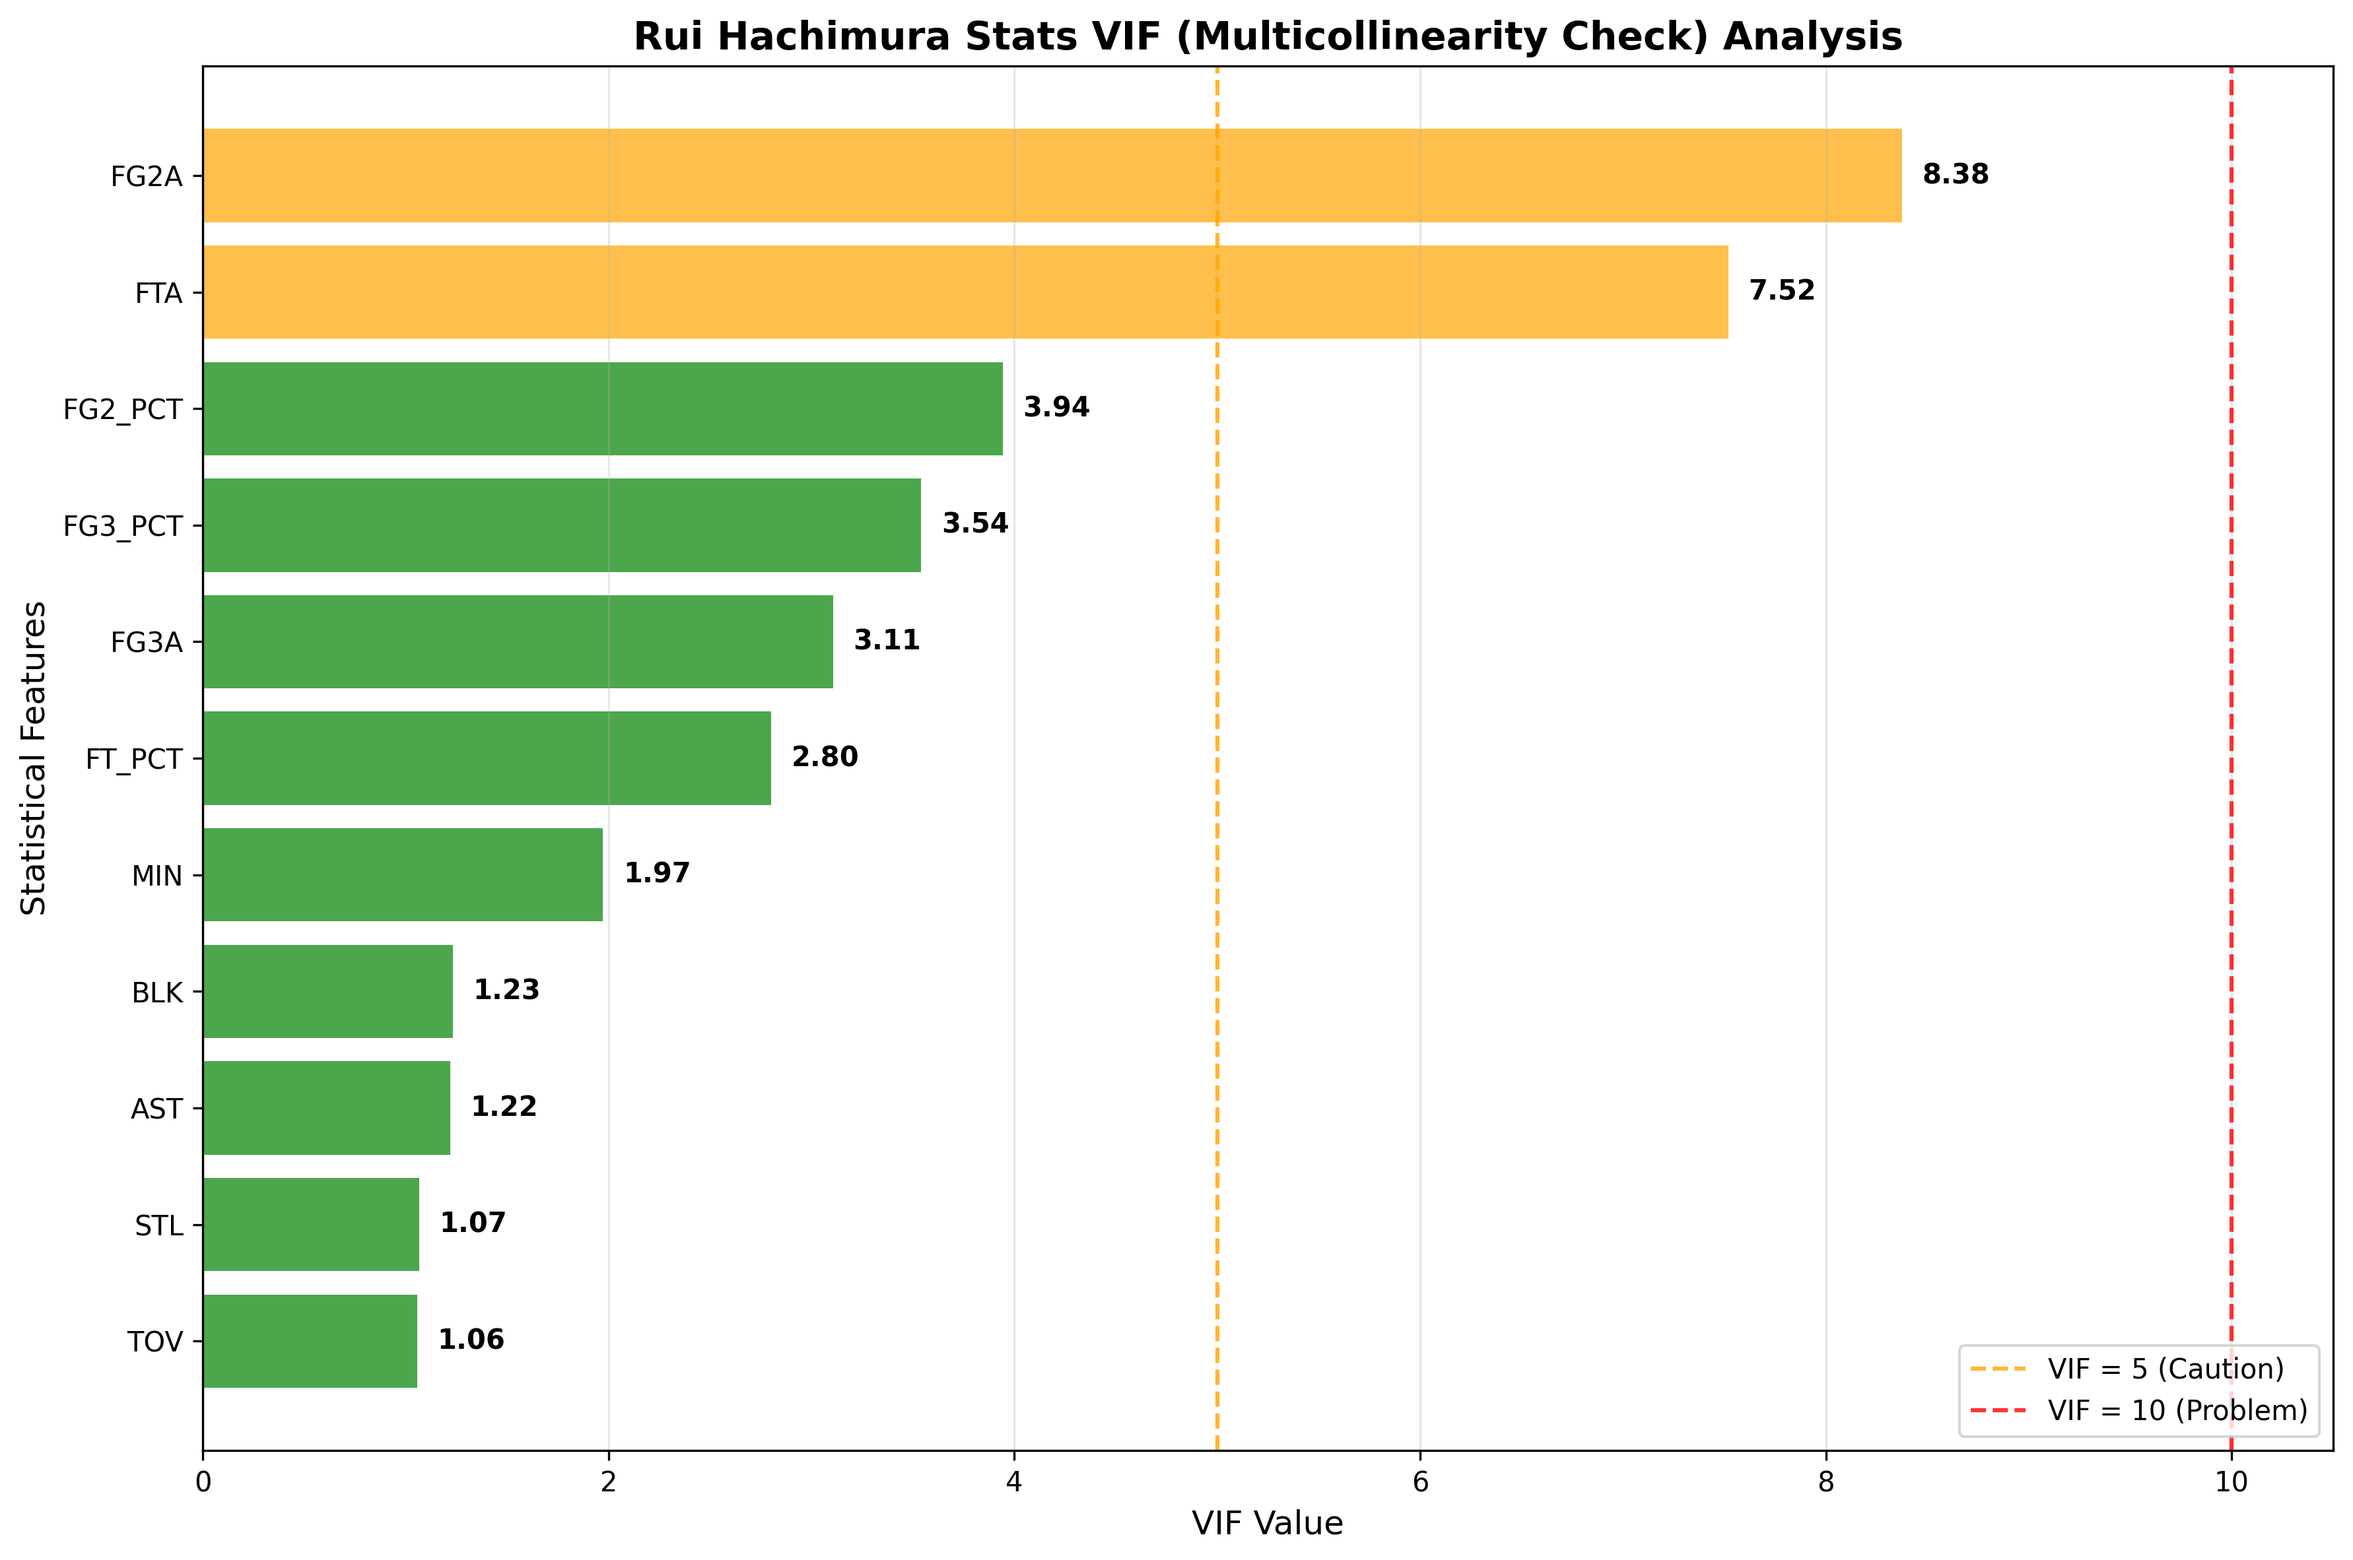
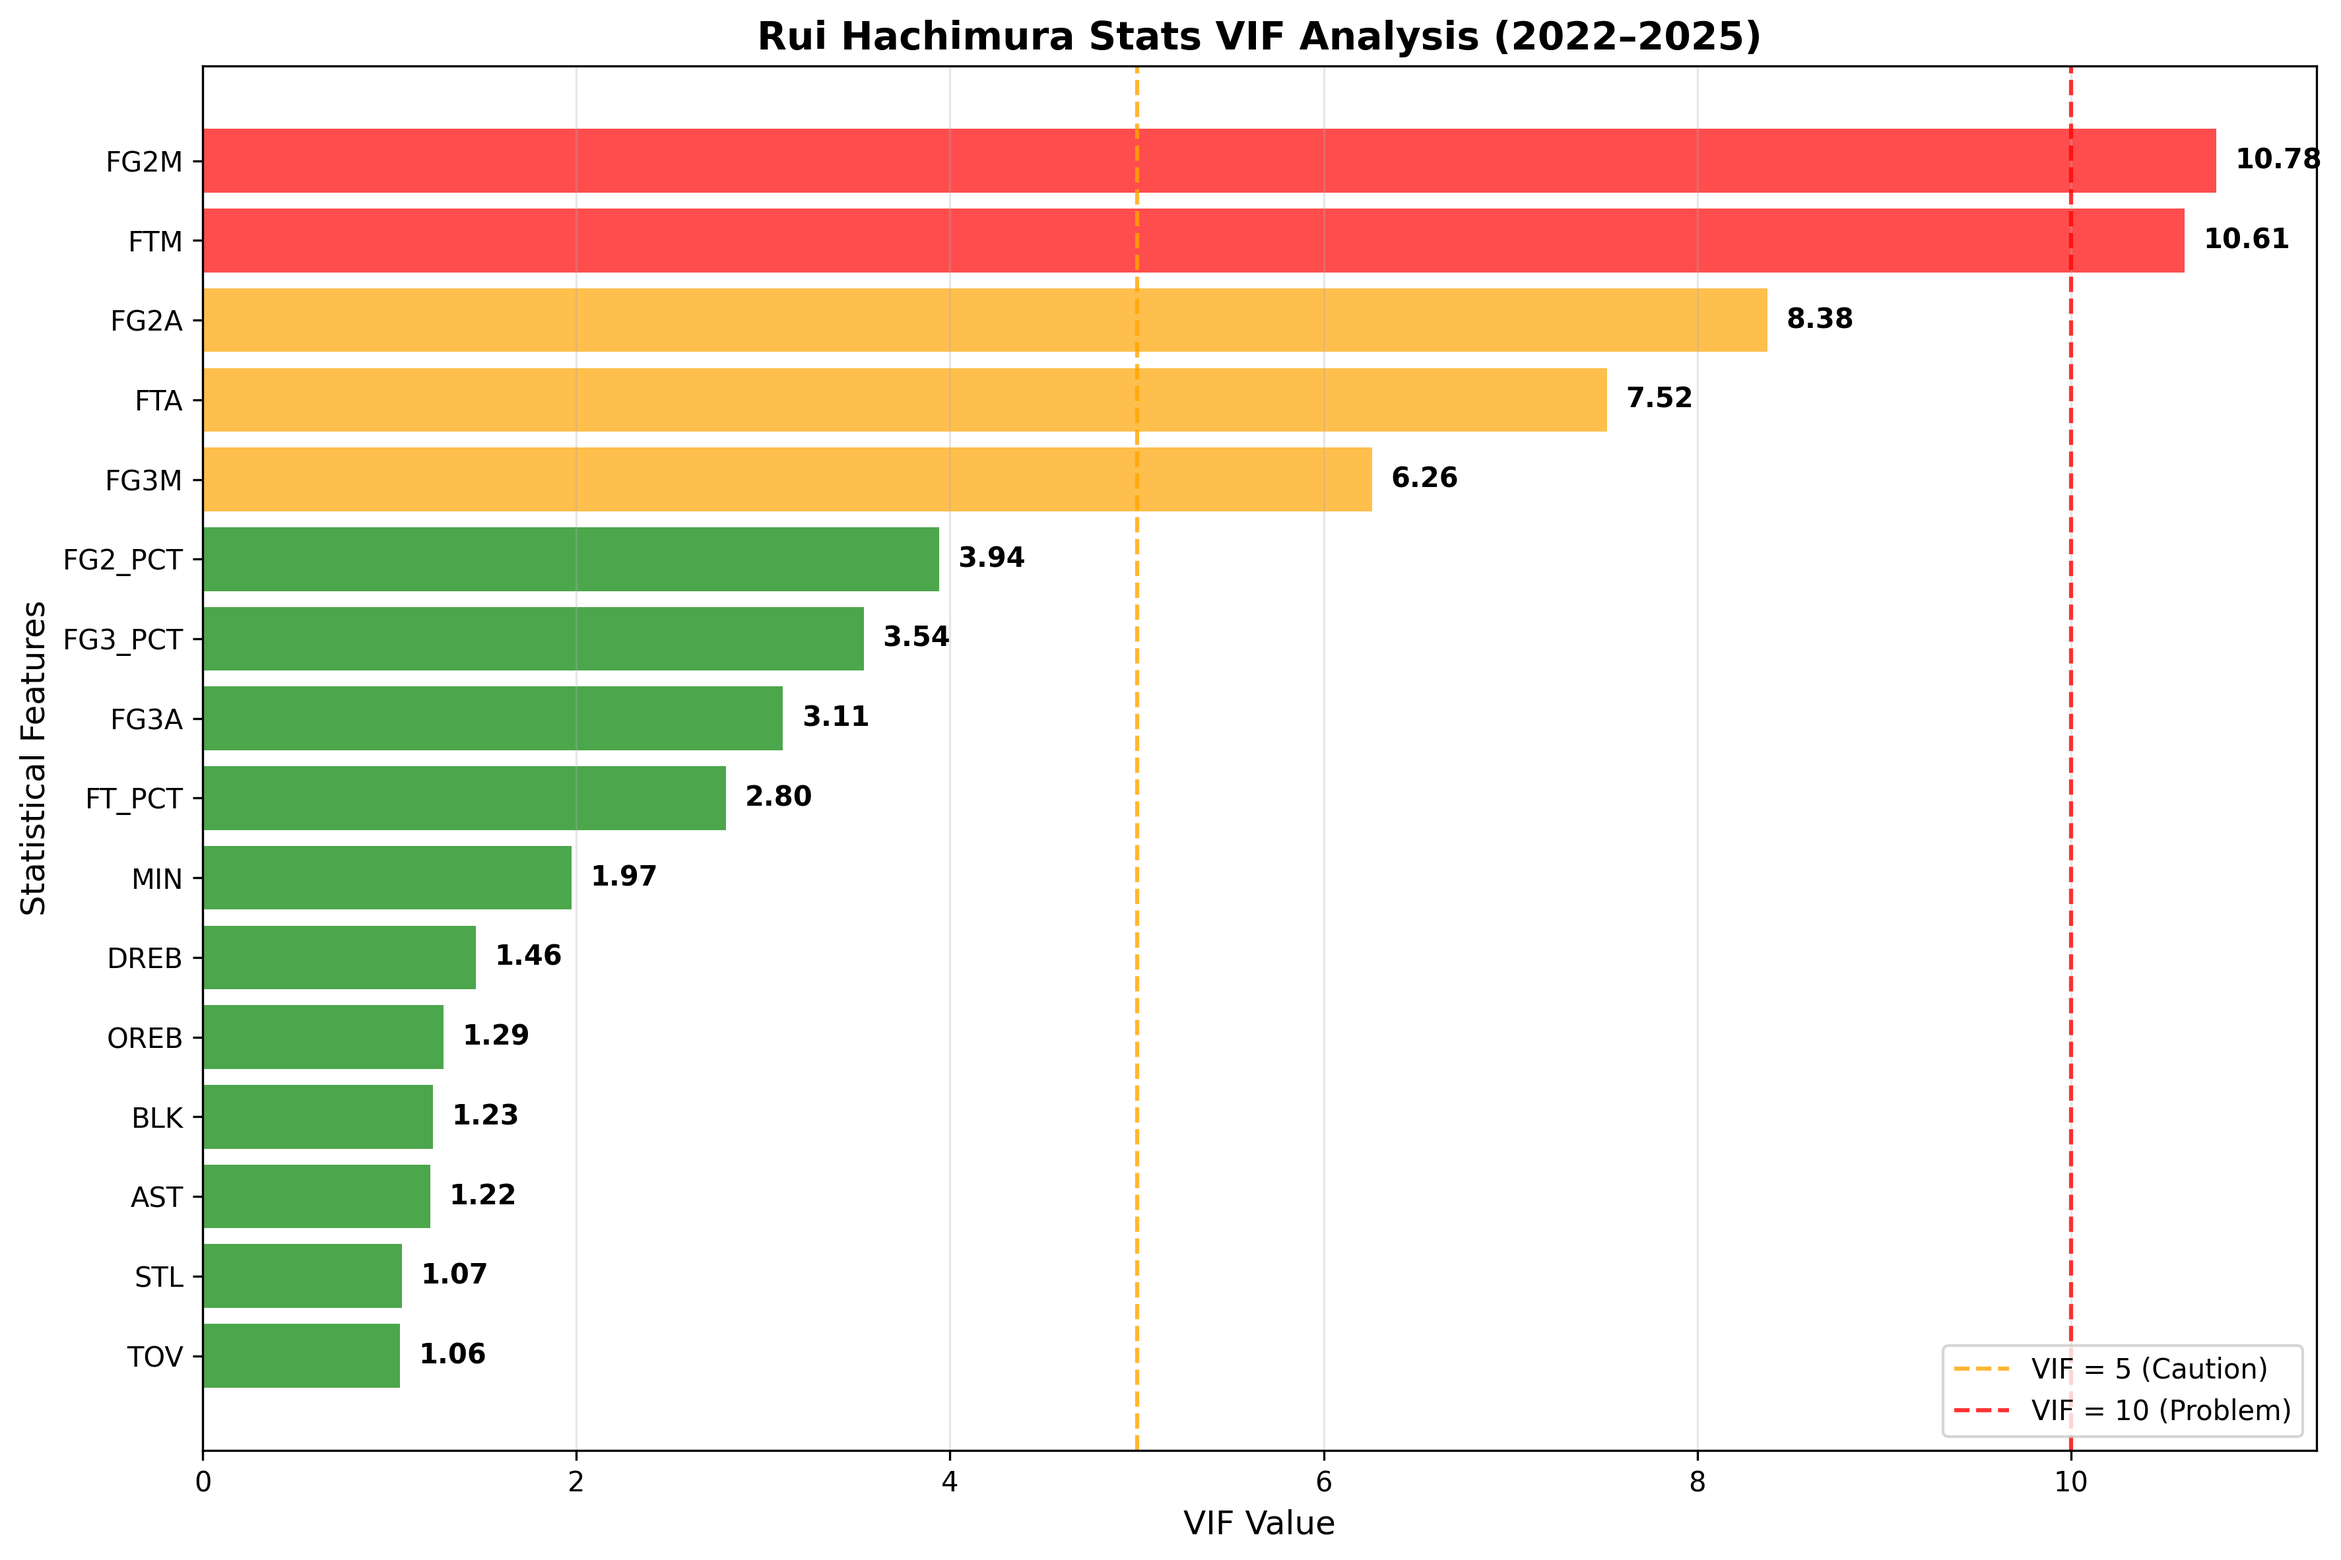
fix: vif analysis

diff --git a/scripts/standard_stats_vif_analysis.py b/scripts/standard_stats_vif_analysis.py
@@ -19,11 +19,11 @@ df["FG2_PCT"] = df.apply(lambda x: x["FG2M"] / x["FG2A"] if x["FG2A"] > 0 else 0
 
 # 説明変数を選択
 features = [
-    "MIN", "PTS",
+    "MIN",
     "FG2M", "FG2A", "FG2_PCT",
     "FG3M", "FG3A", "FG3_PCT",
     "FTM", "FTA", "FT_PCT",
-    "OREB", "DREB", "REB",
+    "OREB", "DREB",
     "AST", "STL", "BLK", "TOV"
 ]
 
@@ -40,9 +40,9 @@ print("=== 八村塁スタッツのVIF(多重共線性チェック)分析 ===")
 print(vif_df.sort_values("VIF", ascending=False).to_string(index=False))
 # 結果の解釈ガイド
 print("\n判定ガイド:")
-print("  VIF < 5    → 問題なし")
-print("  5〜10     → 注意（相関強め）")
-print("  >10       → 多重共線性あり")
+print("VIF < 5    → 問題なし")
+print("5〜10     → 注意（相関強め）")
+print(">10       → 多重共線性あり")
 # 出力ディレクトリ作成
 output_dir = "../outputs/plots"
 os.makedirs(output_dir, exist_ok=True)
@@ -71,8 +71,8 @@ plt.axvline(x=10, color='red', linestyle='--', alpha=0.8, label='VIF = 10 (Probl
 
 plt.xlabel('VIF Value', fontsize=12)
 plt.ylabel('Statistical Features', fontsize=12)
-plt.title('Rui Hachimura Stats VIF (Multicollinearity Check) Analysis', fontsize=14, fontweight='bold')
-plt.legend()
+plt.title('Rui Hachimura Stats VIF Analysis (2022–2025)', fontsize=14, fontweight='bold')
+plt.legend(loc='lower right')
 plt.grid(axis='x', alpha=0.3)
 plt.tight_layout()
 plt.savefig(f"{output_dir}/rui_hachimura_vif_analysis.png", dpi=300, bbox_inches="tight")
@@ -92,7 +92,7 @@ sns.heatmap(correlation_matrix,
             mask=mask,
             cbar_kws={"shrink": .8})
 
-plt.title("Rui Hachimura Stats Correlation Matrix (|r| ≥ 0.6)", fontsize=14, fontweight='bold')
+plt.title("Rui Hachimura Stats Correlation Matrix (|r| ≥ 0.6) (2022–2025)", fontsize=14, fontweight='bold')
 plt.tight_layout()
 plt.savefig(f"{output_dir}/rui_hachimura_correlation_heatmap.png", dpi=300, bbox_inches="tight")
 plt.close()
